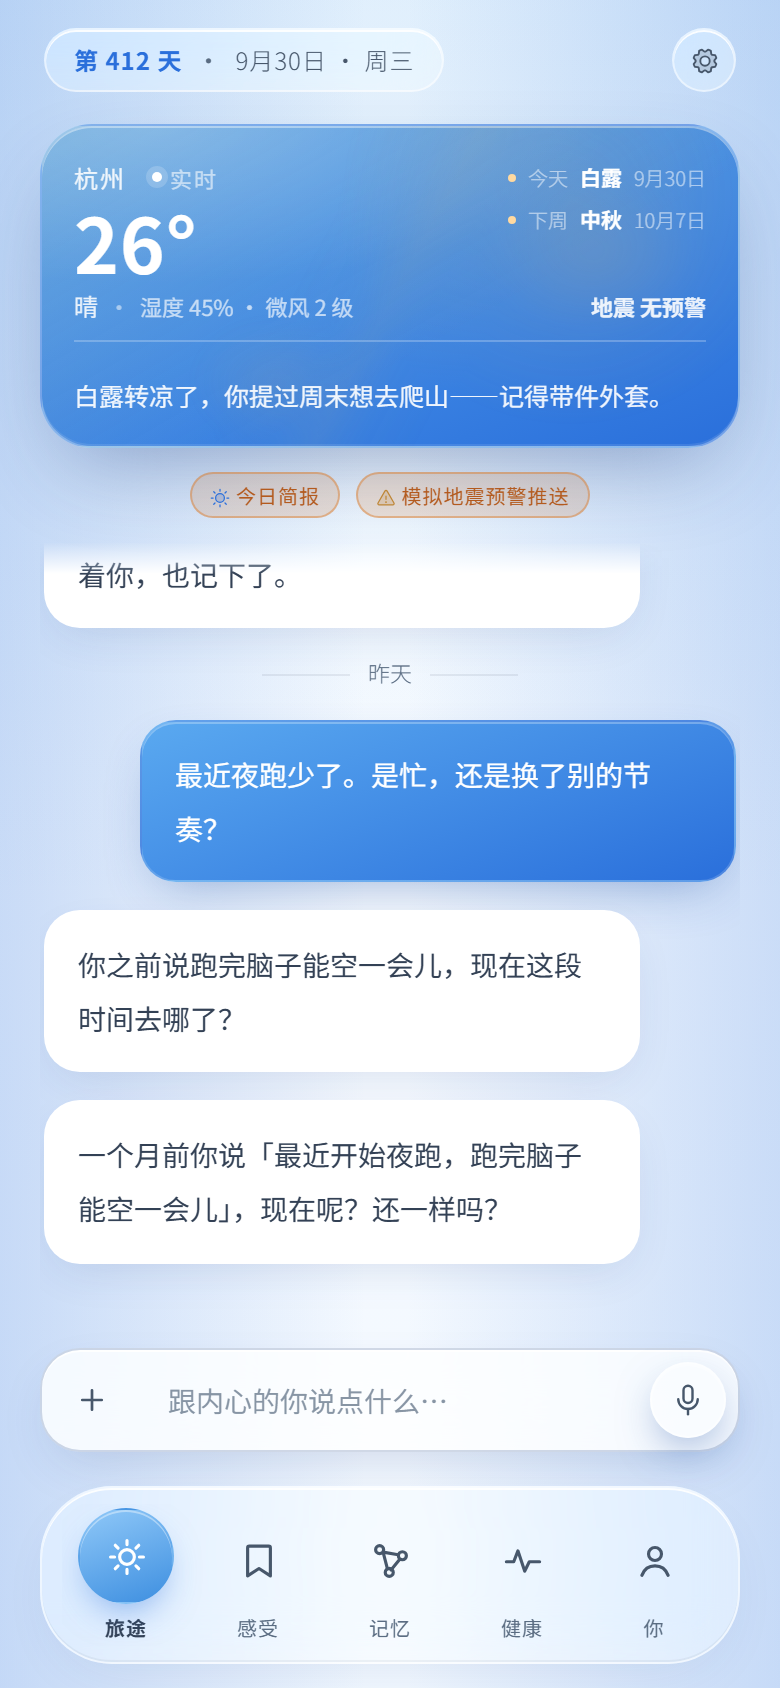
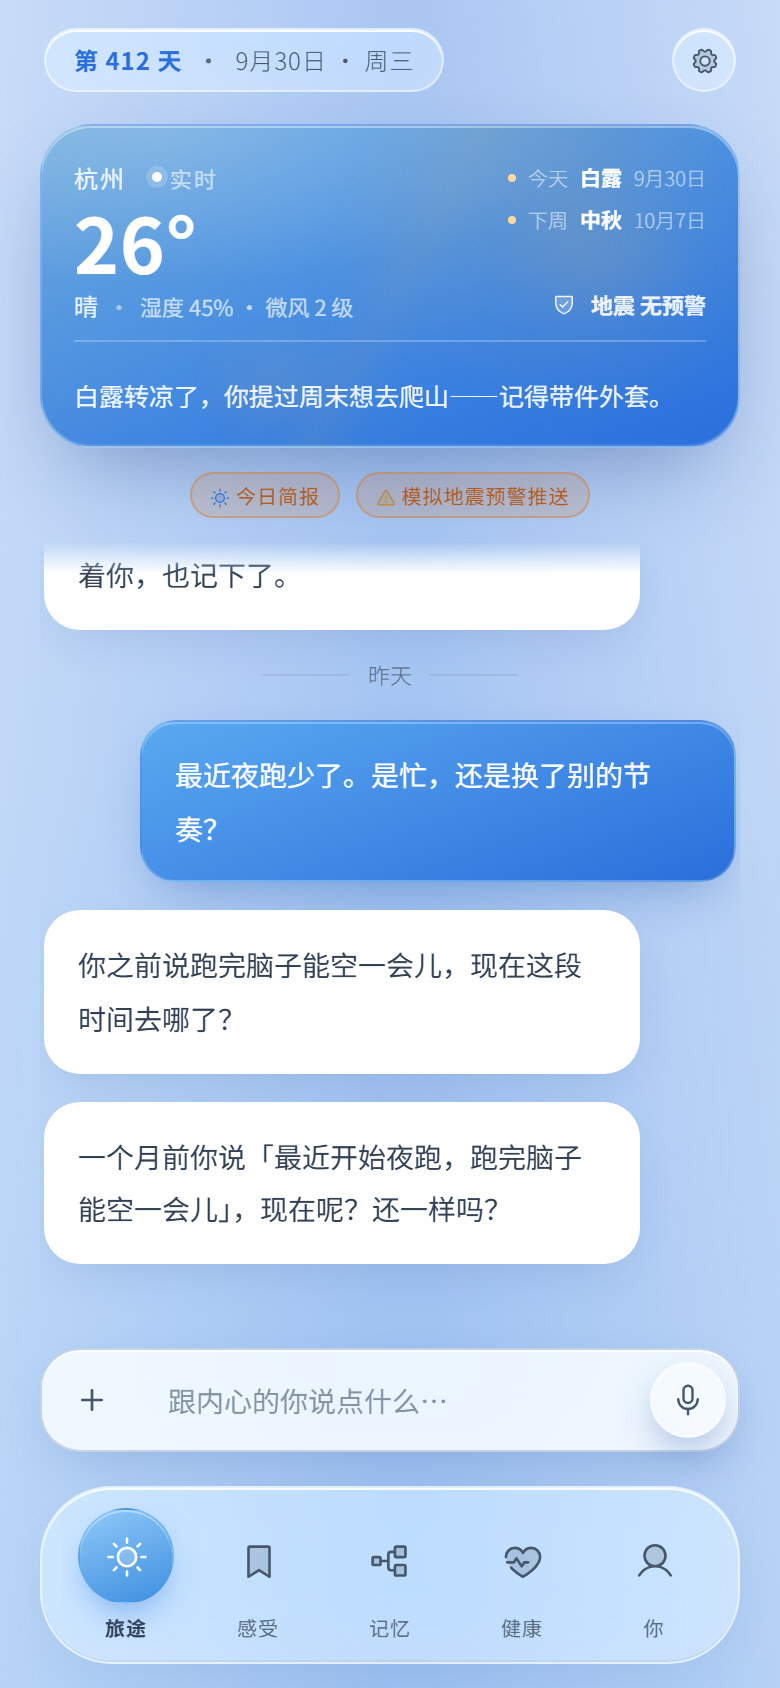
feat: dock 图标换成 Phosphor Duotone + 补回地震盾

diff --git a/prototype/index.html b/prototype/index.html
@@ -1377,7 +1377,7 @@
     background:transparent;border:1px solid transparent;
     transition:transform .22s ease, background .22s ease, box-shadow .22s ease, border-color .22s ease;
   }
-  .nav-item .icg{width:22px;height:22px;display:block;color:var(--text-dim);transition:color .22s ease;}
+  .nav-item .icg{width:22px;height:22px;display:block;color:var(--text-dim);transition:color .22s ease;fill:currentColor;stroke:none;}
   .nav-item .lb{font-size:10px;line-height:1;white-space:nowrap;letter-spacing:.5px;transition:.18s;}
   .nav-item.active{color:var(--text);font-weight:600;}
   .nav-item.active .ic{
@@ -2680,7 +2680,7 @@
             <div class="weather-cond" data-page-node-id="MUoBfShLlG3f6A4oMfkdRr">
               <span class="weather-desc" id="weatherDesc" data-page-node-id="vLTkEKiWK8CevnKUfiBJFx">多云</span>
               <span class="weather-hum" id="weatherHum" data-page-node-id="KPU1TONCa9qYyI5xai9bHY">湿度 55% · 东北风 2 级</span>
-              <div class="weather-quake" id="weatherQuake"><span class="wq-main"><span class="wq-txt">地震 无预警</span></span></div>
+              <div class="weather-quake" id="weatherQuake"><span class="wq-main"><span class="wq-ico" style="display:inline-flex;align-items:center;margin-right:4px;"><svg viewBox="0 0 256 256" width="12" height="12" fill="currentColor" aria-hidden="true"><path d="M216,56v56c0,96-88,120-88,120S40,208,40,112V56a8,8,0,0,1,8-8H208A8,8,0,0,1,216,56Z" opacity="0.2"/><path d="M208,40H48A16,16,0,0,0,32,56v56c0,52.72,25.52,84.67,46.93,102.19,23.06,18.86,46,25.26,47,25.53a8,8,0,0,0,4.2,0c1-.27,23.91-6.67,47-25.53C198.48,196.67,224,164.72,224,112V56A16,16,0,0,0,208,40Zm0,72c0,37.07-13.66,67.16-40.6,89.42A129.3,129.3,0,0,1,128,223.62a128.25,128.25,0,0,1-38.92-21.81C61.82,179.51,48,149.3,48,112l0-56,160,0ZM82.34,141.66a8,8,0,0,1,11.32-11.32L112,148.69l50.34-50.35a8,8,0,0,1,11.32,11.32l-56,56a8,8,0,0,1-11.32,0Z"/></svg></span><span class="wq-txt">地震 无预警</span></span></div>
             </div>
           </div>
           
@@ -3358,23 +3358,23 @@
   <div class="nav" data-page-node-id="3ewCOO58QQOA1zvzNkb8ap">
     <div class="nav-scroll" id="nav" data-page-node-id="SK03yu2lPCivaLTH5KAEbB">
       <button type="button" class="nav-item active" data-i="0" data-page-node-id="7PoUHZGvWXYsuDNGSsCon0">
-        <span class="ic" data-page-node-id="B954v9k5LP81wEhSCKqBG5"><svg class="icg" viewBox="0 0 24 24" fill="none" stroke="currentColor" stroke-width="1.8" stroke-linecap="round" stroke-linejoin="round" aria-hidden="true" data-page-node-id="B07ZjzqA1J7cYs9kme91DZ"><circle cx="12" cy="12" r="4.2" data-page-node-id="dOgRlb51REWcf8x5AvCKvQ"></circle><path d="M12 2.6v2.3M12 19.1v2.3M2.6 12h2.3M19.1 12h2.3M5.3 5.3l1.6 1.6M17.1 17.1l1.6 1.6M18.7 5.3l-1.6 1.6M6.9 17.1l-1.6 1.6" data-page-node-id="eoXCB2JulzlMXsN2aAFxzN"></path></svg></span>
+        <span class="ic" data-page-node-id="B954v9k5LP81wEhSCKqBG5"><svg class="icg" viewBox="0 0 256 256" fill="currentColor" aria-hidden="true"><path d="M184,128a56,56,0,1,1-56-56A56,56,0,0,1,184,128Z" opacity="0.2"/><path d="M120,40V16a8,8,0,0,1,16,0V40a8,8,0,0,1-16,0Zm72,88a64,64,0,1,1-64-64A64.07,64.07,0,0,1,192,128Zm-16,0a48,48,0,1,0-48,48A48.05,48.05,0,0,0,176,128ZM58.34,69.66A8,8,0,0,0,69.66,58.34l-16-16A8,8,0,0,0,42.34,53.66Zm0,116.68-16,16a8,8,0,0,0,11.32,11.32l16-16a8,8,0,0,0-11.32-11.32ZM192,72a8,8,0,0,0,5.66-2.34l16-16a8,8,0,0,0-11.32-11.32l-16,16A8,8,0,0,0,192,72Zm5.66,114.34a8,8,0,0,0-11.32,11.32l16,16a8,8,0,0,0,11.32-11.32ZM48,128a8,8,0,0,0-8-8H16a8,8,0,0,0,0,16H40A8,8,0,0,0,48,128Zm80,80a8,8,0,0,0-8,8v24a8,8,0,0,0,16,0V216A8,8,0,0,0,128,208Zm112-88H216a8,8,0,0,0,0,16h24a8,8,0,0,0,0-16Z"/></svg></span>
         <span class="lb" data-page-node-id="63H7T7F6AQELyxDfzOXTfO">旅途</span>
       </button>
       <button type="button" class="nav-item" data-i="1" data-page-node-id="otikLLGdDNT4cw0RsCT6WW">
-        <span class="ic" data-page-node-id="2mgAJetQZKpFz1eZPiZH9Q"><svg class="icg" viewBox="0 0 24 24" fill="none" stroke="currentColor" stroke-width="1.8" stroke-linecap="round" stroke-linejoin="round" aria-hidden="true" data-page-node-id="zMemJjpc5HeNfMoKrIaA8e"><path d="M6.5 3.5h11a1 1 0 0 1 1 1v16l-6.5-4.2L5.5 20.5v-16a1 1 0 0 1 1-1z" data-page-node-id="O0fwiF3TLcRWFvYOsXSAje"></path></svg></span>
+        <span class="ic" data-page-node-id="2mgAJetQZKpFz1eZPiZH9Q"><svg class="icg" viewBox="0 0 256 256" fill="currentColor" aria-hidden="true"><path d="M192,48V224l-64-40L64,224V48a8,8,0,0,1,8-8H184A8,8,0,0,1,192,48Z" opacity="0.2"/><path d="M184,32H72A16,16,0,0,0,56,48V224a8,8,0,0,0,12.24,6.78L128,193.43l59.77,37.35A8,8,0,0,0,200,224V48A16,16,0,0,0,184,32Zm0,177.57-51.77-32.35a8,8,0,0,0-8.48,0L72,209.57V48H184Z"/></svg></span>
         <span class="lb" data-page-node-id="eddkYv7KjlW8flHnHcHeLJ">感受</span>
       </button>
       <button type="button" class="nav-item" data-i="2" data-page-node-id="oFwlx71u7UNYBcgeJ3d0r7">
-        <span class="ic" data-page-node-id="ELhvsn25u6fnM7oJ6tFhLB"><svg class="icg" viewBox="0 0 24 24" fill="none" stroke="currentColor" stroke-width="1.8" stroke-linecap="round" stroke-linejoin="round" aria-hidden="true" data-page-node-id="NzLN7RWHFjxK7SYFtr56wW"><circle cx="5.5" cy="5.5" r="2.3" data-page-node-id="7Rv0xvwyYaaG0fXlNH2MJa"></circle><circle cx="18.5" cy="9" r="2.3" data-page-node-id="3Ainx4apzuh1t7ZSlMcHKq"></circle><circle cx="11" cy="18.5" r="2.3" data-page-node-id="S1Nml8DFPv0wjeixIRFEr2"></circle><path d="M7.5 6.9l8.6 1.5M7.6 7.4l2.4 9.2M16.9 11.1l-4.9 6" data-page-node-id="sAbvPFo9spqRFdqAtkXr6r"></path></svg></span>
+        <span class="ic" data-page-node-id="ELhvsn25u6fnM7oJ6tFhLB"><svg class="icg" viewBox="0 0 256 256" fill="currentColor" aria-hidden="true"><path d="M64,112v32a8,8,0,0,1-8,8H24a8,8,0,0,1-8-8V112a8,8,0,0,1,8-8H56A8,8,0,0,1,64,112ZM208,40H160a8,8,0,0,0-8,8V96a8,8,0,0,0,8,8h48a8,8,0,0,0,8-8V48A8,8,0,0,0,208,40Zm0,112H160a8,8,0,0,0-8,8v48a8,8,0,0,0,8,8h48a8,8,0,0,0,8-8V160A8,8,0,0,0,208,152Z" opacity="0.2"/><path d="M160,112h48a16,16,0,0,0,16-16V48a16,16,0,0,0-16-16H160a16,16,0,0,0-16,16V64H128a24,24,0,0,0-24,24v32H72v-8A16,16,0,0,0,56,96H24A16,16,0,0,0,8,112v32a16,16,0,0,0,16,16H56a16,16,0,0,0,16-16v-8h32v32a24,24,0,0,0,24,24h16v16a16,16,0,0,0,16,16h48a16,16,0,0,0,16-16V160a16,16,0,0,0-16-16H160a16,16,0,0,0-16,16v16H128a8,8,0,0,1-8-8V88a8,8,0,0,1,8-8h16V96A16,16,0,0,0,160,112ZM56,144H24V112H56v32Zm104,16h48v48H160Zm0-112h48V96H160Z"/></svg></span>
         <span class="lb" data-page-node-id="KtbDyppMreSgDQpYX0dwV9">记忆</span>
       </button>
       <button type="button" class="nav-item" data-i="3" data-page-node-id="ZL6aSHl5RBzUwsOrc2NhaN">
-        <span class="ic" data-page-node-id="8BCZGFC7jxAFlO6M38j3d8"><svg class="icg" viewBox="0 0 24 24" fill="none" stroke="currentColor" stroke-width="1.8" stroke-linecap="round" stroke-linejoin="round" aria-hidden="true" data-page-node-id="yLtmar0rj23wpcVLqdD8px"><path d="M2.5 12.4h4.2l2.4-6.2 3.9 11.6 2.6-5.4h5.9" data-page-node-id="pnuwto985UBHaVJReTXXCc"></path></svg></span>
+        <span class="ic" data-page-node-id="8BCZGFC7jxAFlO6M38j3d8"><svg class="icg" viewBox="0 0 256 256" fill="currentColor" aria-hidden="true"><path d="M232,102c0,66-104,122-104,122S24,168,24,102A54,54,0,0,1,78,48c22.59,0,41.94,12.31,50,32,8.06-19.69,27.41-32,50-32A54,54,0,0,1,232,102Z" opacity="0.2"/><path d="M72,144H32a8,8,0,0,1,0-16H67.72l13.62-20.44a8,8,0,0,1,13.32,0l25.34,38,9.34-14A8,8,0,0,1,136,128h24a8,8,0,0,1,0,16H140.28l-13.62,20.44a8,8,0,0,1-13.32,0L88,126.42l-9.34,14A8,8,0,0,1,72,144ZM178,40c-20.65,0-38.73,8.88-50,23.89C116.73,48.88,98.65,40,78,40a62.07,62.07,0,0,0-62,62c0,.75,0,1.5,0,2.25a8,8,0,1,0,16-.5c0-.58,0-1.17,0-1.75A46.06,46.06,0,0,1,78,56c19.45,0,35.78,10.36,42.6,27a8,8,0,0,0,14.8,0c6.82-16.67,23.15-27,42.6-27a46.06,46.06,0,0,1,46,46c0,53.61-77.76,102.15-96,112.8-10.83-6.31-42.63-26-66.68-52.21a8,8,0,1,0-11.8,10.82c31.17,34,72.93,56.68,74.69,57.63a8,8,0,0,0,7.58,0C136.21,228.66,240,172,240,102A62.07,62.07,0,0,0,178,40Z"/></svg></span>
         <span class="lb" data-page-node-id="H1T7mbZs2puyIWrHcOtOcg">健康</span>
       </button>
       <button type="button" class="nav-item" data-i="4" data-page-node-id="KGdv1kpzpHB7oLF1DhvFel">
-        <span class="ic" data-page-node-id="nGjI2Mxhe3Ygjlw0Jjwey1"><svg class="icg" viewBox="0 0 24 24" fill="none" stroke="currentColor" stroke-width="1.8" stroke-linecap="round" stroke-linejoin="round" aria-hidden="true" data-page-node-id="IPCEAL89Ymy70L3vKLV9w9"><circle cx="12" cy="8" r="3.7" data-page-node-id="h78OvksyU6eOoJJ3lo8gpU"></circle><path d="M4.5 20.2c1.4-3.7 4.2-5.4 7.5-5.4s6.1 1.7 7.5 5.4" data-page-node-id="Tqr1fsMEVKTACkPvF2NV98"></path></svg></span>
+        <span class="ic" data-page-node-id="nGjI2Mxhe3Ygjlw0Jjwey1"><svg class="icg" viewBox="0 0 256 256" fill="currentColor" aria-hidden="true"><path d="M192,96a64,64,0,1,1-64-64A64,64,0,0,1,192,96Z" opacity="0.2"/><path d="M230.92,212c-15.23-26.33-38.7-45.21-66.09-54.16a72,72,0,1,0-73.66,0C63.78,166.78,40.31,185.66,25.08,212a8,8,0,1,0,13.85,8c18.84-32.56,52.14-52,89.07-52s70.23,19.44,89.07,52a8,8,0,1,0,13.85-8ZM72,96a56,56,0,1,1,56,56A56.06,56.06,0,0,1,72,96Z"/></svg></span>
         <span class="lb" data-page-node-id="DzqemEFcVaoBHRoBBghozA">你</span>
       </button>
     </div>
